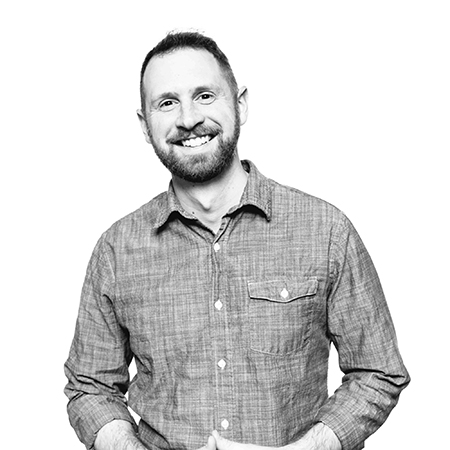
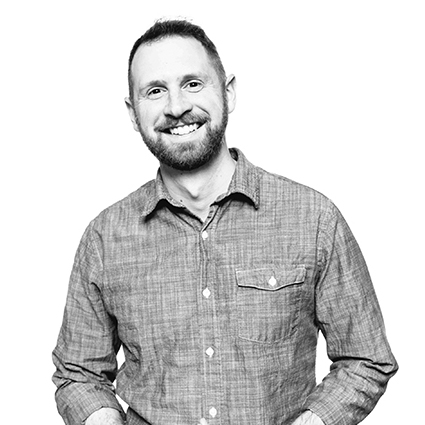
updates to heading letter spacing

Changed region(s): [[0.1224, 0.0306, 0.9482, 1.0]]

diff --git a/index.html b/index.html
@@ -9,7 +9,7 @@
 		<title>Dano Qualls | Portfolio</title>
 
 		<!-- FONTS -->
-		<link href='http://fonts.googleapis.com/css?family=Lato:300|Raleway:300' rel='stylesheet' type='text/css'>
+		<link href='http://fonts.googleapis.com/css?family=Raleway:300' rel='stylesheet' type='text/css'>
 
 	<!-- STYLESHEETS -->
 		<link rel="stylesheet" href="css/app.css" />
@@ -54,7 +54,7 @@
 		<!-- begin top content -->
 		    <div class="row header-row">
 		      <div class="small-12 medium-6 large-6 columns">
-		        <img src="images/1.jpg" alt="Profile photo" />
+		        <img src="images/profile.jpg" alt="Profile photo" />
 		      </div>
 		      <div class="small-12 medium-6 large-6 columns">
 		        <h2 class="header-text header-text-top">innovation strategist</h2>
@@ -106,7 +106,7 @@
 
 		    <!-- begin ux design wrapper -->
 		    <div class="ux-design wrapper block">
-		          <h1 class="wrapper-text centered">innovation strategy</h1>
+		          <h1 class="wrapper-text centered">user experience design</h1>
 		    </div> <!-- end ux design wrapper -->
 
 		    <!-- begin ux design section -->
@@ -140,27 +140,24 @@
 		    <div class="row">
 		      <div class="large-4 medium-4 small-12 columns">
 		        <img src="images/dog.jpg" alt="Drink Crate image" class="center-image" />
-		        <h2 class="preview-header">Drink Crate</h2>
-		        <h4>How might we disrupt the $400B alcohol industry?</h4>
-		        <p class="preview-section">Creating the world's first crowd-sourced alcohol branding platform.</p>
+		        <h2 class="preview-header">DanoQualls.com</h2>
+		        <p class="preview-section">I built this site on the Foundation framework and hosted it at GitHub. I found the code for the nav bar <a href="http://webdesign.tutsplus.com/tutorials/how-to-build-a-shrinking-fixed-top-bar-with-foundation--cms-20895" target="_blank">here</a>.</p>
 		      </div>
 		      <div class="large-4 medium-4 small-12 columns">
 		        <img src="images/goat.jpg" alt="Puzzle Ball image" class="center-image" />
-		        <h2 class="preview-header">Puzzle Ball</h2>
-		        <h4>How might we make a learning toy that children want to play with?</h4>
-		        <p class="preview-section">Making a new toy for Hasbro.</p>
+		        <h2 class="preview-header">Form Challenge</h2>
+		        <p class="preview-section">One of the Fresh Tilled Soil Apprentice in UX Design (AUX) challenges was to create a web form using progressively enhanced HTML, CSS, and JS from scratch. See the original design <a href="#">here</a> and what I implemented <a href="http://danoqualls.github.io/link/form/" target="_blank">here</a>.</p>
 		      </div>
 		      <div class="large-4 medium-4 small-12 columns">
 		        <img src="images/birds.jpg" alt="WineKick image" class="center-image" />
-		        <h2 class="preview-header">WineKick</h2>
-		        <h4>How might we help liquor stores increase sales and loyalty?</h4>
-		        <p class="preview-section">Making wine discovery easy for novices with the Wine Sidekick.</p>
+		        <h2 class="preview-header">Crystal Corkscrew</h2>
+		        <p class="preview-section">Corkscrew is a coded style guide that Fresh Tilled Soil delivers to clients along with a site design. This allows clients to grow their site in a consistent and modular fashion. I contributed about one-third of the code for the Crystal Corkscrew. <a href="http://crystal.ftsdesign.com/design/" target="_blank">See it here</a>.</p>
 		      </div>
 		    </div> <!-- end coding section -->
 
 		    <!-- begin writing wrapper -->
 		    <div class="writing wrapper block">
-		          <h1 class="wrapper-text centered">innovation strategy</h1>
+		          <h1 class="wrapper-text centered">writing</h1>
 		    </div> <!-- end writing wrapper -->
 
 		    <!-- begin writing section -->

diff --git a/css/custom.css b/css/custom.css
@@ -1,5 +1,5 @@
 h1, h2, h3, h4, h5, h6 {
-  font-family: "Lato", sans-serif;
+  font-family: "Raleway", sans-serif;
 }
 p {
   font-family: "Raleway", serif;
@@ -9,11 +9,8 @@ p {
   font-style: normal;
   color: #1f1f1f;
 }
-nav {
-  font-family: "Lato", sans-serif;
-}
 .nav-links {
-  font-family: "Lato", sans-serif;
+  font-family: "Raleway", sans-serif;
 }
 .nav-links-active {
   color: gray;
@@ -42,13 +39,13 @@ section {
   background: linear-gradient( rgba(0, 0, 0, 0.5), rgba(0, 0, 0, 0.5) ), url(../images/clouds.jpg);
 }
 .ux-design {
-  background: linear-gradient( rgba(0, 0, 0, 0.5), rgba(0, 0, 0, 0.5) ), url(../images/1.jpg);
+  background: linear-gradient( rgba(0, 0, 0, 0.5), rgba(0, 0, 0, 0.5) ), url(../images/clouds.jpg);
 }
 .coding {
   background: linear-gradient( rgba(0, 0, 0, 0.5), rgba(0, 0, 0, 0.5) ), url(../images/coding.jpg);
 }
 .writing {
-  background: linear-gradient( rgba(0, 0, 0, 0.5), rgba(0, 0, 0, 0.5) ), url(../images/1.jpg);
+  background: linear-gradient( rgba(0, 0, 0, 0.5), rgba(0, 0, 0, 0.5) ), url(../images/clouds.jpg);
 }
 .wrapper {
   width: 100%;
@@ -65,6 +62,7 @@ section {
 .wrapper-text {
   text-align: center;
   vertical-align: middle;
+  letter-spacing: 0.1em;
 }
 .darken {
   background: linear-gradient( rgba(0, 0, 0, 0.5), rgba(0, 0, 0, 0.5) ), url("../images/1.jpg");
@@ -92,6 +90,7 @@ section {
 }
 .preview-header {
   text-align: center;
+  margin-bottom: 30px;
 }
 .preview-section {
   margin-bottom: 100px;
@@ -111,7 +110,7 @@ section {
   letter-spacing: 0.1em;
 }
 .top-bar-section ul li > a {
-  letter-spacing: 0.1em;
+  letter-spacing: 0.15em;
   font-size: 0.75em;
 }
 .top-bar ul li a:hover {
@@ -135,7 +134,8 @@ section {
 }
 .title-name {
   color: white;
-  font-size: 1.75em;
+  font-size: 1.5em;
   text-transform: uppercase;
   padding-left: 20px;
+  letter-spacing: 0.15em;
 }
